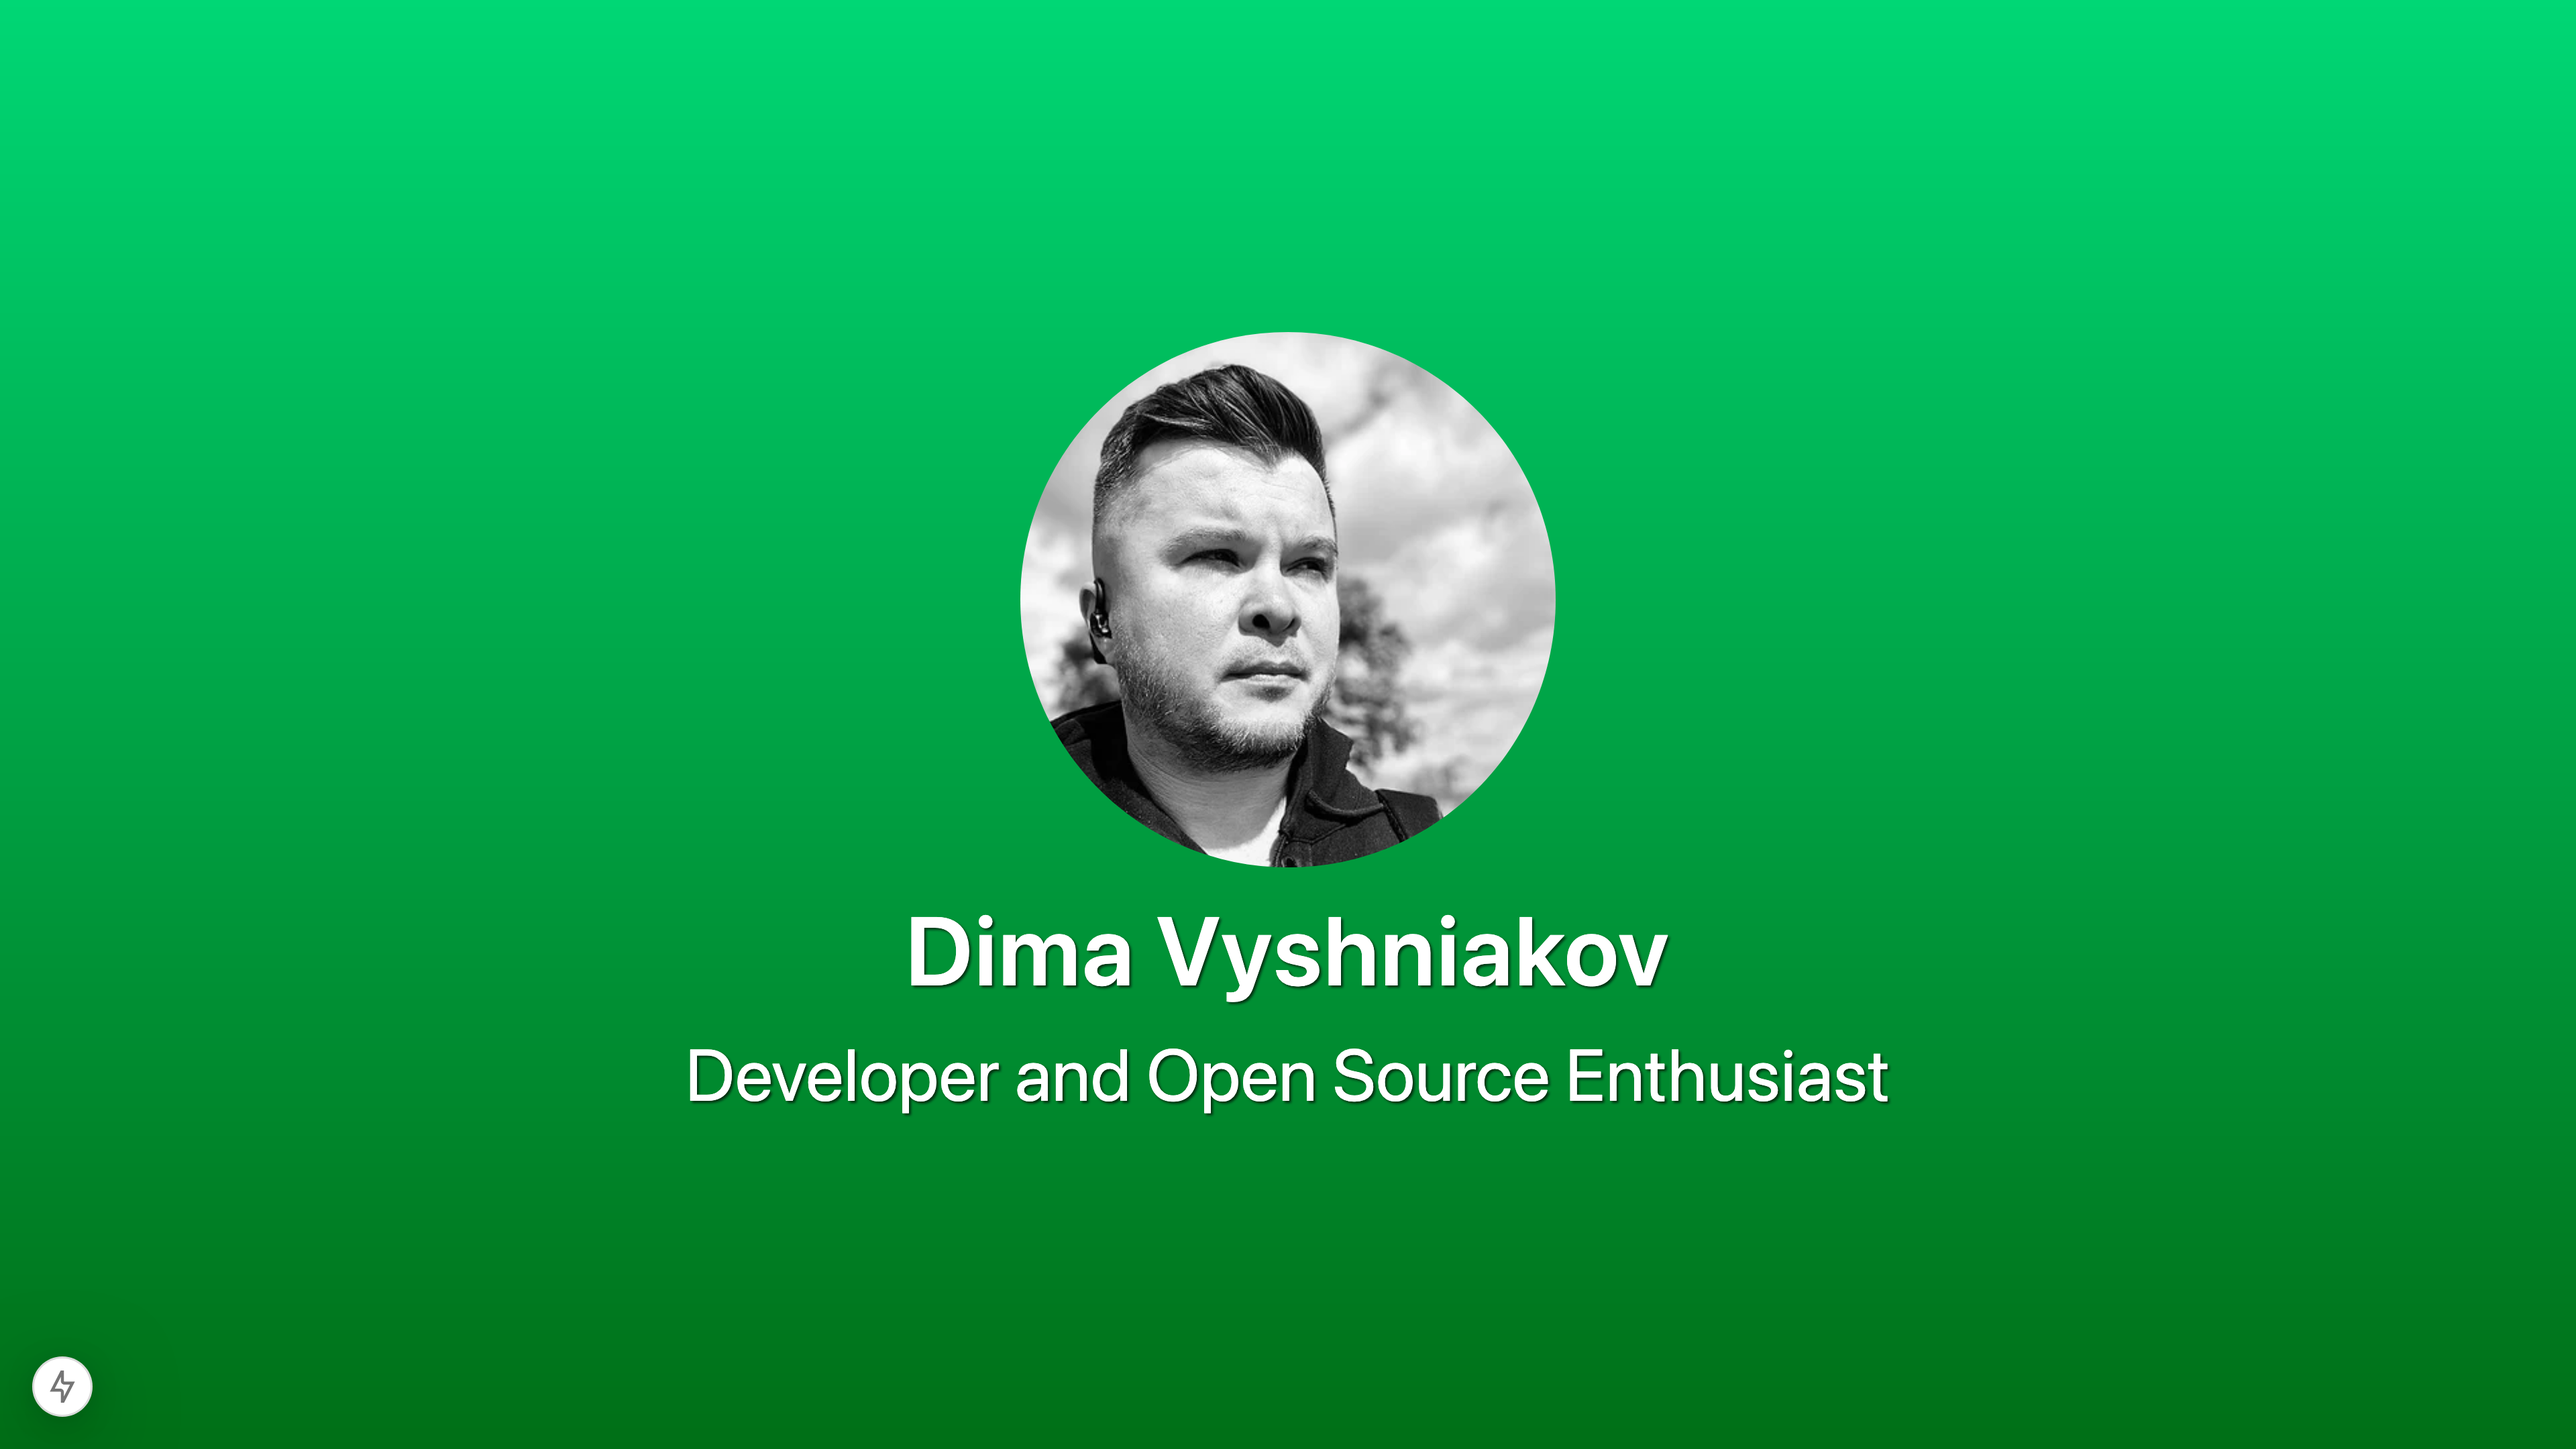
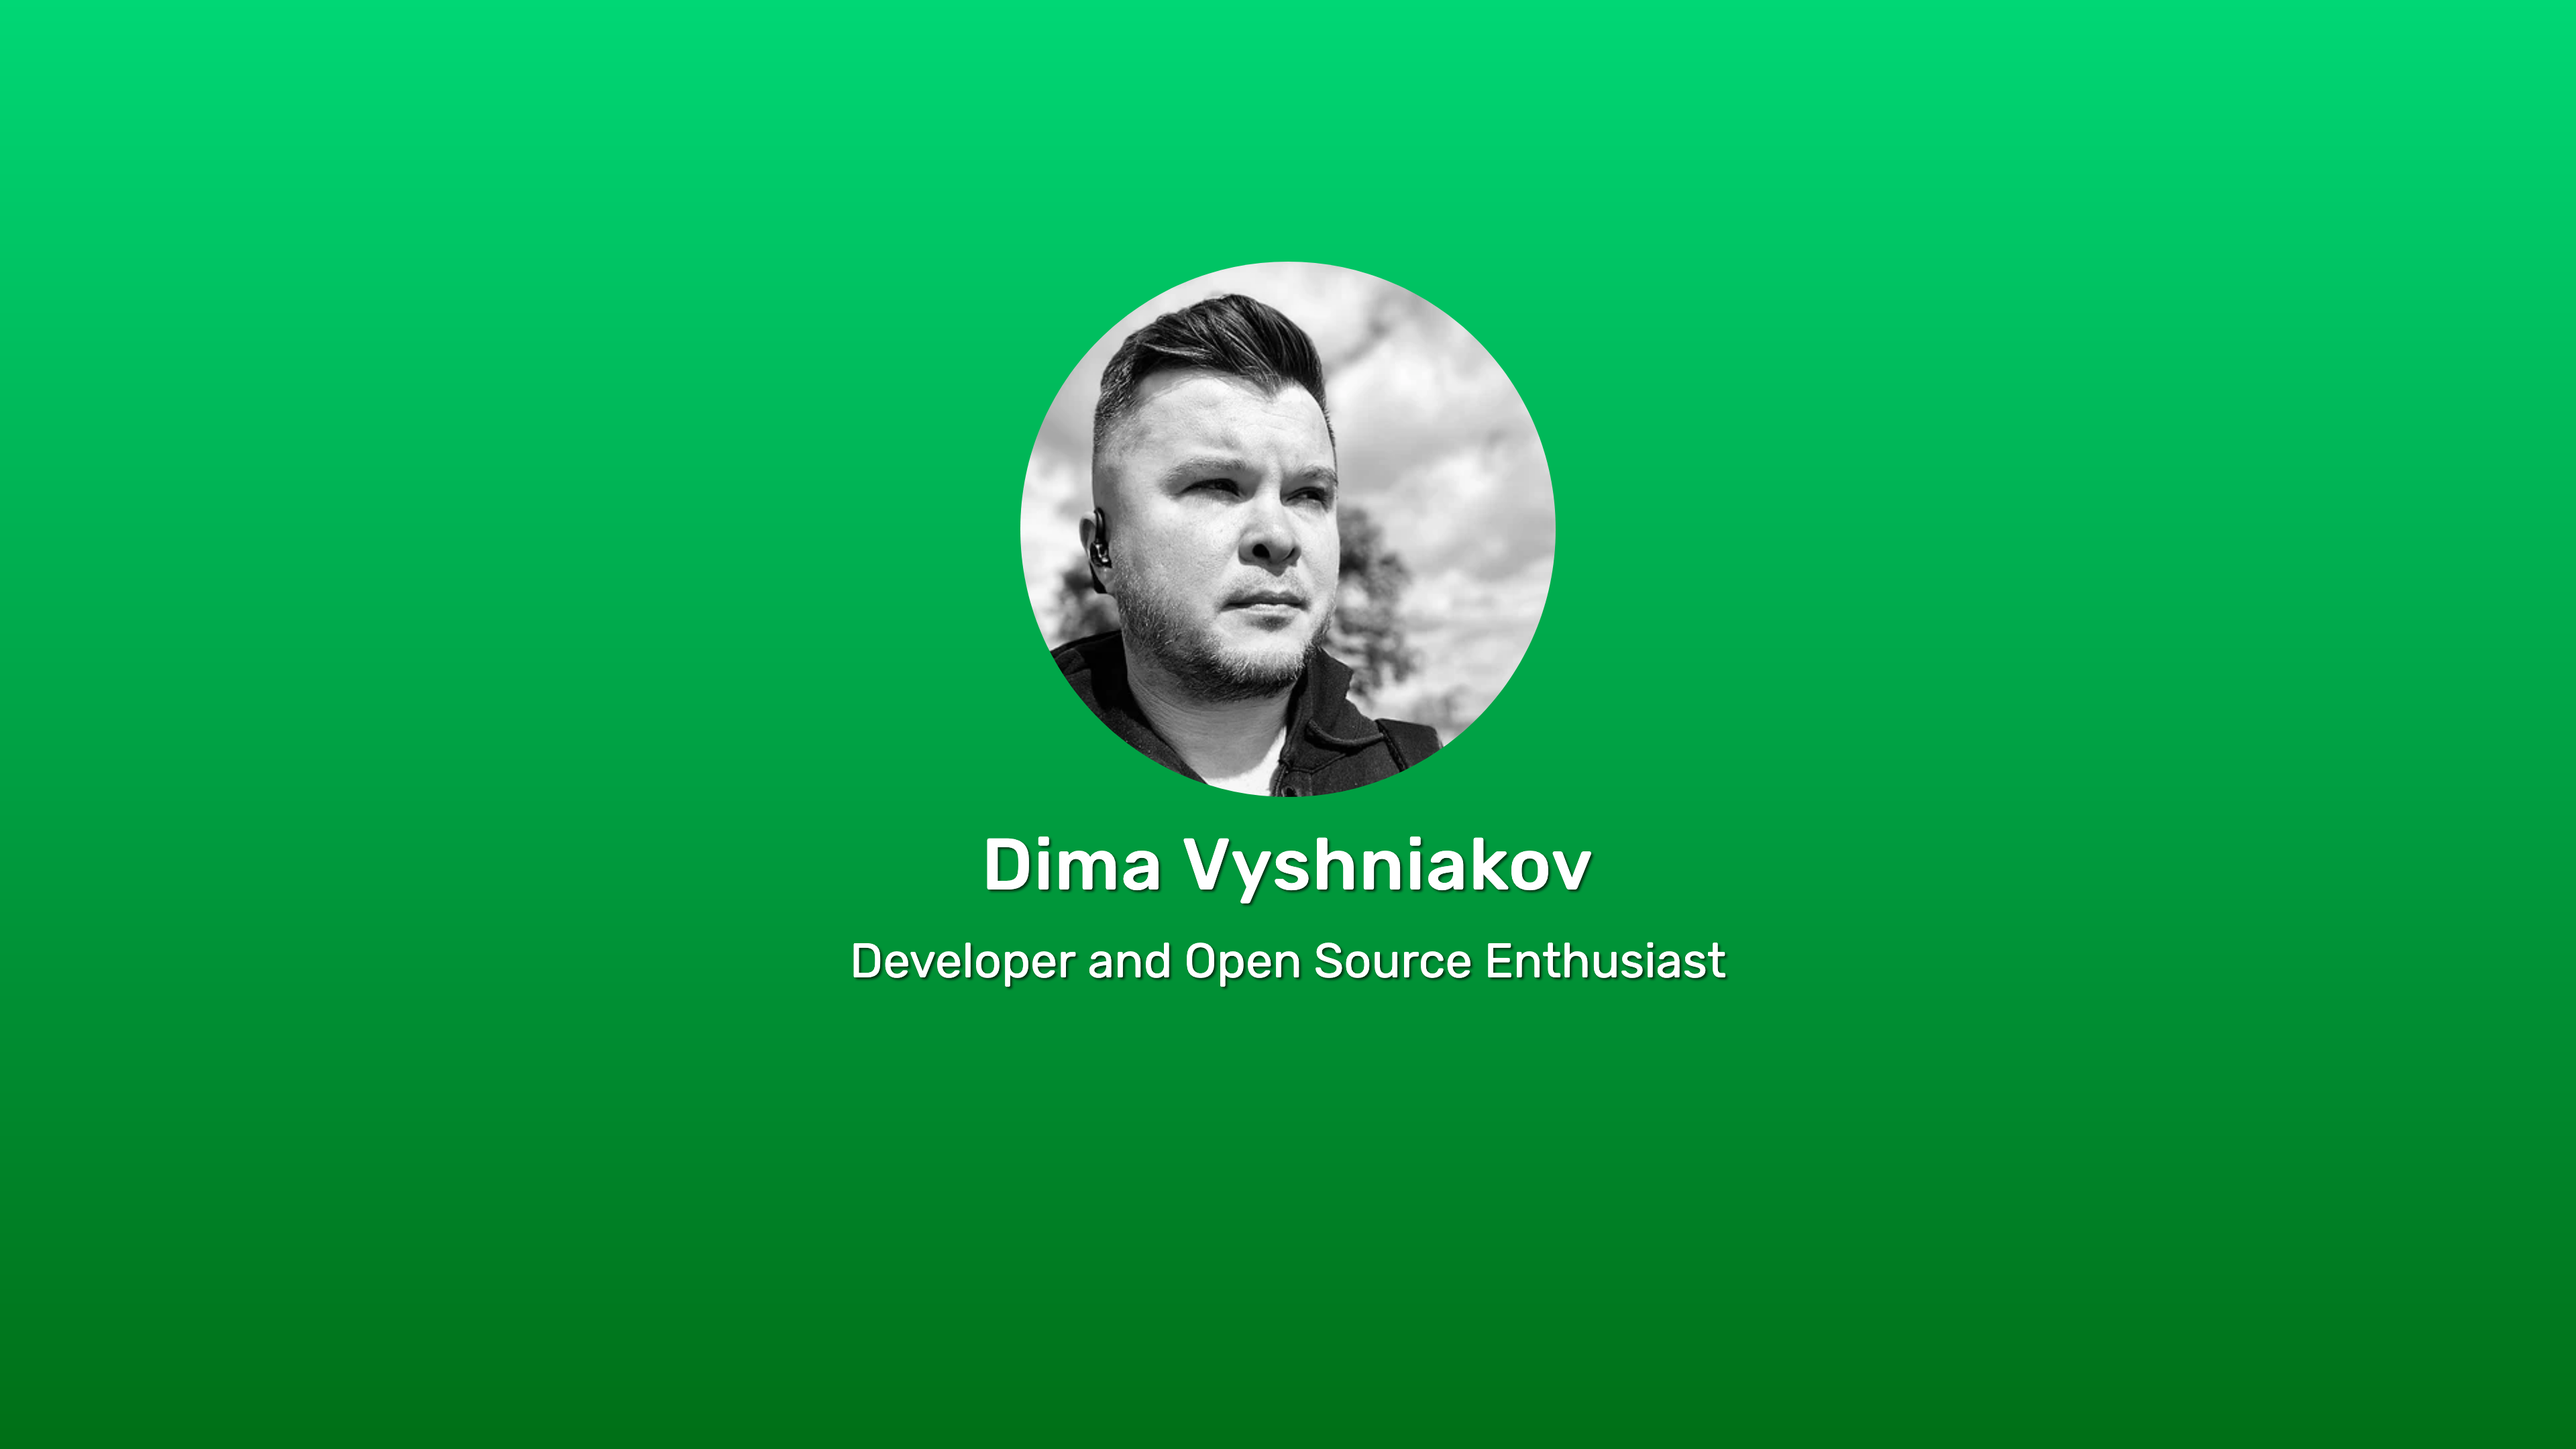
Add new backgrounds

Changed region(s): [[0.25, 0.1551, 0.75, 0.7755], [0.0, 0.9306, 0.0312, 0.9926]]

diff --git a/src/components/Background/Background.module.css b/src/components/Background/Background.module.css
@@ -68,7 +68,99 @@
 }
 
 .rainbow {
-    animation: rainbow-animation 42s infinite linear;
+    animation: rainbow-animation 24s infinite linear;
+}
+
+/* Second release */
+
+.rastafari {
+    background: linear-gradient(to top, #1e9600, #ffce39, #f00);
+}
+
+.sunset {
+    background: linear-gradient(to top, #355c7d, #6c5b7b, #c06c84);
+}
+
+.selenium {
+    background: linear-gradient(to top, #3c3b3f, #605c3c);
+}
+
+.evening {
+    background: linear-gradient(to top, #0575e6, #021b79);
+}
+
+.optimistic {
+    background-image: linear-gradient(43deg, #4158d0 0%, #c850c0 46%, #ffcc70 100%);
+}
+
+.elegant {
+    background-image: linear-gradient(
+        179deg,
+        rgb(0 0 0 / 100%) 9.2%,
+        rgb(127 16 16 / 100%) 103.9%
+    );
+}
+
+@keyframes mesh-animation {
+    0% {
+        background-size: 100% 100%;
+    }
+
+    10% {
+        background-size: 140% 120%;
+    }
+
+    20% {
+        background-size: 180% 120%;
+    }
+
+    30% {
+        background-size: 200% 140%;
+    }
+
+    40% {
+        background-size: 220% 130%;
+    }
+
+    50% {
+        background-size: 220% 120%;
+    }
+
+    60% {
+        background-size: 200% 150%;
+    }
+
+    70% {
+        background-size: 180% 180%;
+    }
+
+    80% {
+        background-size: 160% 160%;
+    }
+
+    90% {
+        background-size: 120% 130%;
+    }
+
+    100% {
+        background-size: 100% 100%;
+    }
+}
+
+.mesh {
+    animation: mesh-animation 10s linear infinite;
+    background-color: #99ffb9;
+    background-image: radial-gradient(
+            at 80% 81%,
+            hsl(17deg 80% 69% / 100%) 0,
+            transparent 50%
+        ),
+        radial-gradient(at 45% 24%, hsl(240deg 90% 68% / 100%) 0, transparent 50%),
+        radial-gradient(at 96% 21%, hsl(335deg 87% 74% / 100%) 0, transparent 50%),
+        radial-gradient(at 54% 79%, hsl(218deg 69% 69% / 100%) 0, transparent 50%),
+        radial-gradient(at 16% 53%, hsl(143deg 85% 74% / 100%) 0, transparent 50%),
+        radial-gradient(at 1% 66%, hsl(99deg 92% 77% / 100%) 0, transparent 50%),
+        radial-gradient(at 38% 64%, hsl(18deg 82% 79% / 100%) 0, transparent 50%);
 }
 
 .container {

diff --git a/app/layout.tsx b/app/layout.tsx
@@ -6,7 +6,7 @@ import 'the-new-css-reset/css/reset.css';
 import {config} from '@/config';
 
 const rubik = Rubik({
-    subsets: ['latin', 'cyrillic'],
+    subsets: ['latin'],
     display: 'swap',
 });
 
@@ -18,7 +18,12 @@ export default function RootLayout({children}: Props) {
     return (
         <html lang="en" suppressHydrationWarning className={rubik.className}>
             <head>
-                <meta name="apple-mobile-web-app-title" content="MyWebSite" />
+                <meta name="apple-mobile-web-app-title" content={config.title} />
+                <meta name="og:title" content={config.title} />
+                <meta property="og:type" content="website" />
+                <meta property="og:image" content="/social.png" />
+                <meta name="og:description" content={`${config.title}: ${config.bio}`} />
+                <meta name="description" content={`${config.title}: ${config.bio}`} />
                 <title>{config.title}</title>
             </head>
             <body>{children}</body>

diff --git a/src/components/Background/Background.tsx b/src/components/Background/Background.tsx
@@ -21,6 +21,13 @@ export const Background: FC<Props> = ({children, background = config.background}
                 [classes.strict]: background === Backgrounds.strict,
                 [classes.bold]: background === Backgrounds.bold,
                 [classes.gradient]: background === Backgrounds.gradient,
+                [classes.rastafari]: background === Backgrounds.rastafari,
+                [classes.sunset]: background === Backgrounds.sunset,
+                [classes.elegant]: background === Backgrounds.elegant,
+                [classes.selenium]: background === Backgrounds.selenium,
+                [classes.evening]: background === Backgrounds.evening,
+                [classes.optimistic]: background === Backgrounds.optimistic,
+                [classes.mesh]: background === Backgrounds.mesh,
             })}>
             {children}
         </div>

diff --git a/types.ts b/types.ts
@@ -18,6 +18,13 @@ export enum Backgrounds {
     bold = 'bold',
     gradient = 'gradient',
     rainbow = 'rainbow',
+    rastafari = 'rastafari',
+    sunset = 'sunset',
+    elegant = 'elegant',
+    selenium = 'selenium',
+    evening = 'evening',
+    optimistic = 'optimistic',
+    mesh = 'mesh',
 }
 
 export type VCard = {

diff --git a/config.ts b/config.ts
@@ -24,7 +24,7 @@ export const config: Config = {
     cardImage: image,
     // Set your Google Analytics id to enable
     gaId: 'G-47GR0Q414J',
-    // Localise sharing text
+    // Localize sharing text
     shareTitle: 'Share link',
     // Set icon links to contact you to display below the header
     headerLinks: [

diff --git a/src/components/Header/Header.module.css b/src/components/Header/Header.module.css
@@ -3,6 +3,7 @@
     display: flex;
     flex-direction: column;
     gap: 12px;
+    max-width: 100%;
     padding: 24px 24px 0;
 }
 
@@ -38,6 +39,8 @@
     display: flex;
     flex-wrap: nowrap;
     gap: 12px;
+    max-width: 100%;
+    overflow: auto;
 
     @media (pointer: coarse) {
         gap: 24px;
